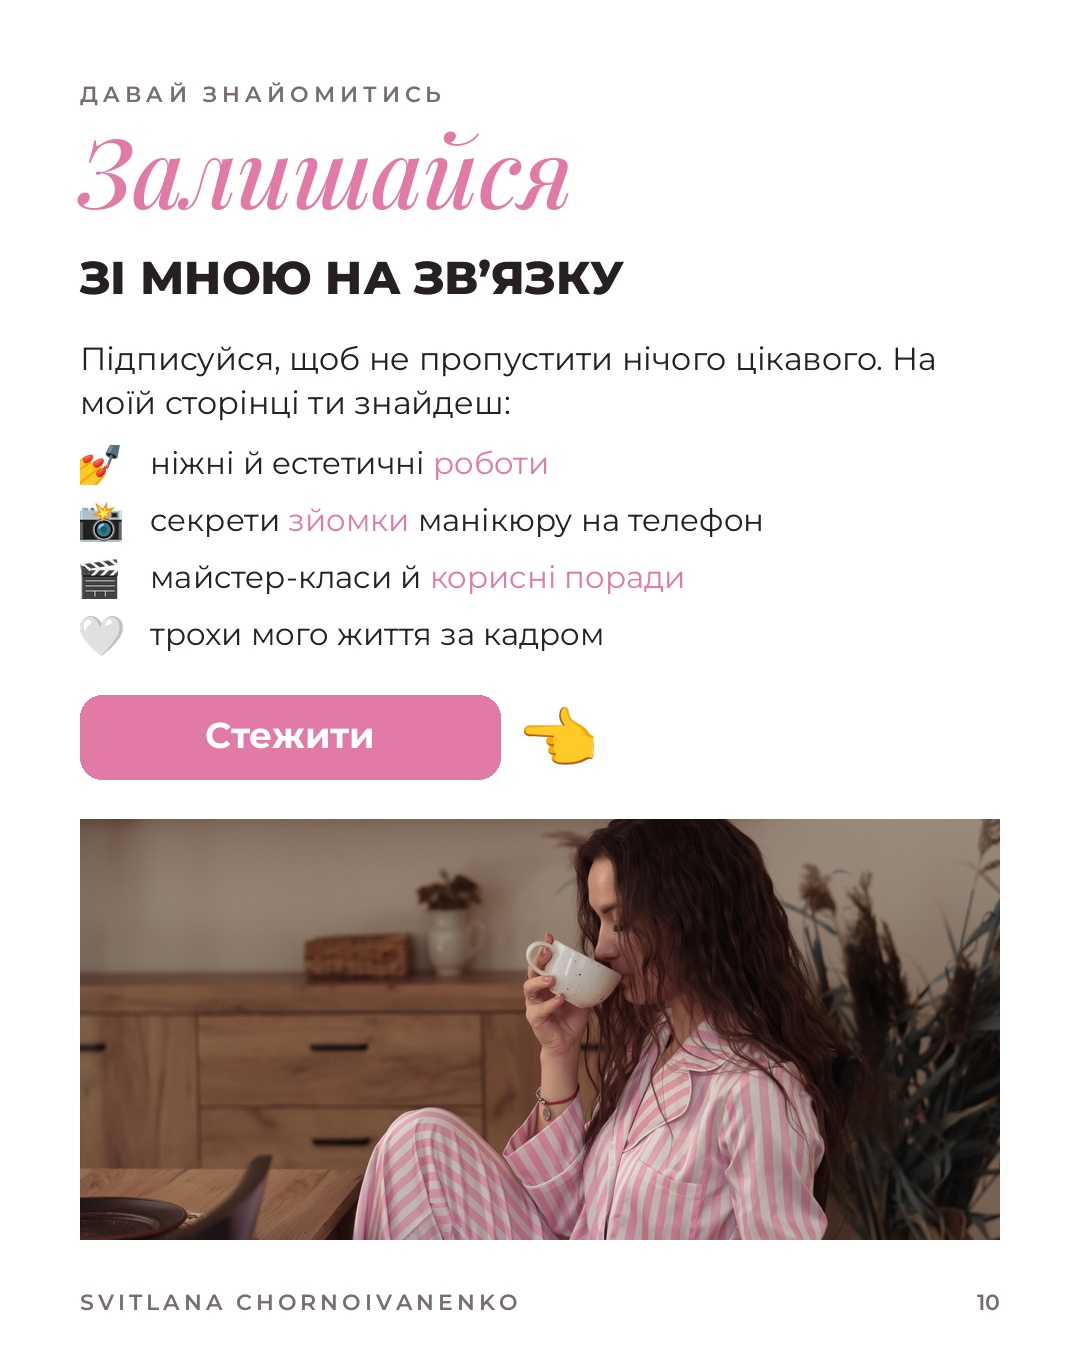
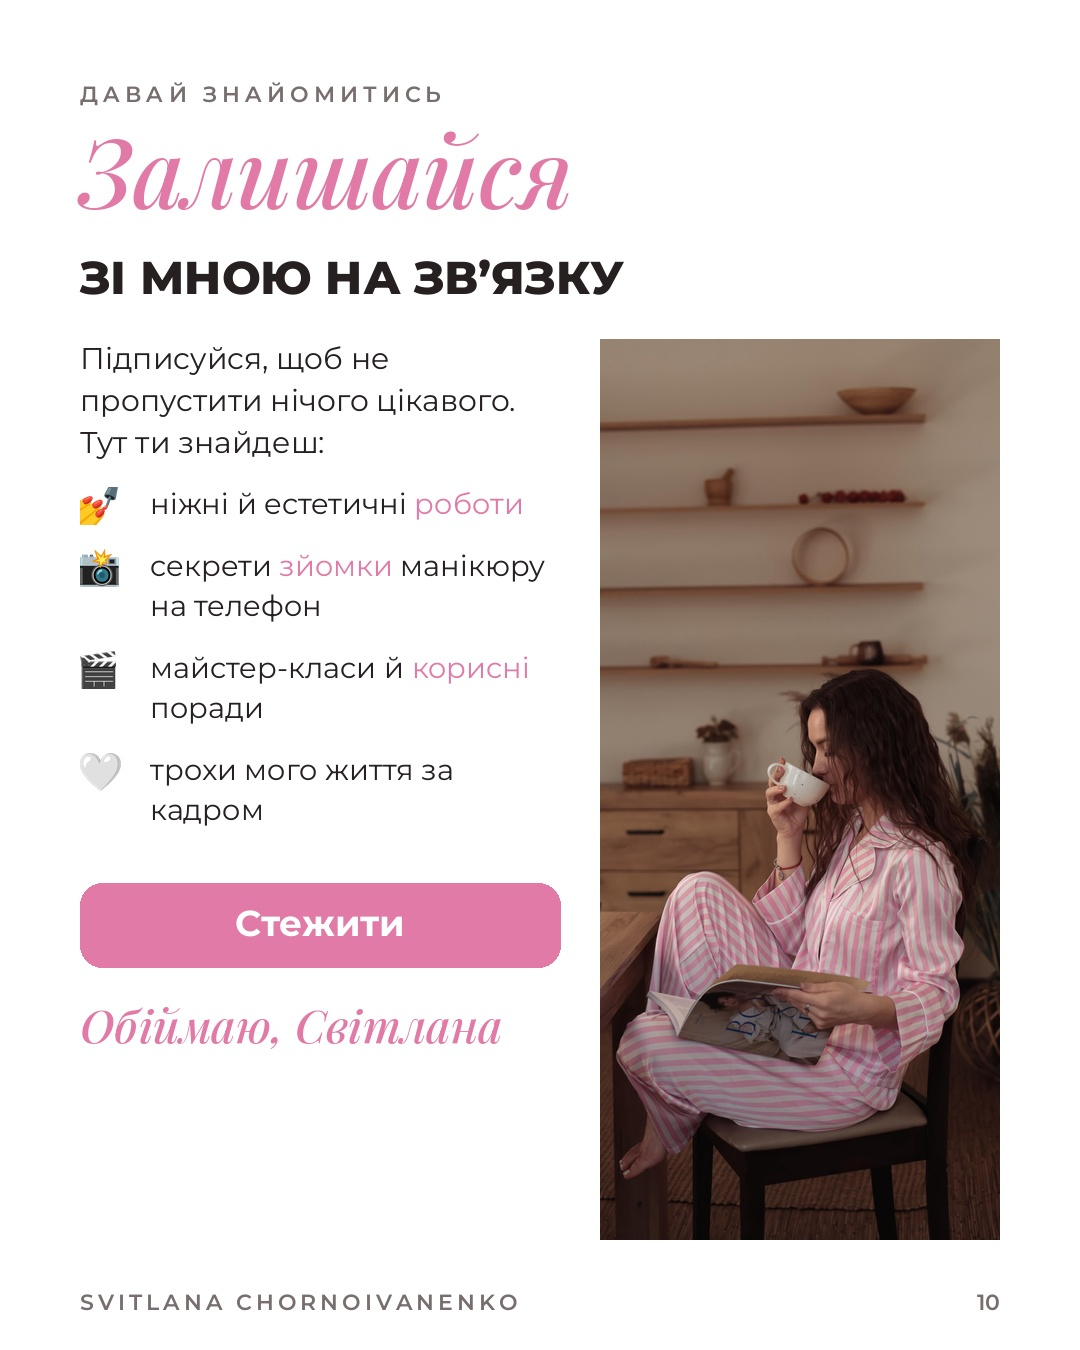
Intro slide 10: vertical photo layout
Claude-Session: https://claude.ai/code/session_0191xVL2hi5vHUvM1ix6pauC

diff --git a/karusel_znaiomstvo/build_10.py b/karusel_znaiomstvo/build_10.py
@@ -3,18 +3,19 @@ S,R=sys.argv[1:3]
 src=open(f'{S}/vl/intro.py').read(); exec(src.split('# ---------- 1 cover')[0])
 c = Image.new('RGB', (W, H), BG); d = ImageDraw.Draw(c)
 y = hdr(d, 'Залишайся', 'ЗІ МНОЮ НА ЗВ’ЯЗКУ')
-y = para(d, 80, y, 'Підписуйся, щоб не пропустити нічого цікавого. На моїй сторінці ти знайдеш:', M(32, 400), 920)
-y = bullet_list(c, d, y + 16, [('💅', 'ніжні й естетичні *роботи*'),
-                               ('📸', 'секрети *зйомки* манікюру на телефон'),
-                               ('🎬', 'майстер-класи й *корисні поради*'),
-                               ('🤍', 'трохи мого життя за кадром')], emo_h=40, size=31, gap=14)
-# follow button
-by = y + 24; bw = 420; bh = 84; bx = 80
+# right vertical photo
+px = 600; pw = W - 80 - px; ptop = y; ph = H - 110 - ptop
+tile(c, L('09383c56-image.jpg'), px, ptop, pw, ph, 0.62, 0.45)
+d = ImageDraw.Draw(c)
+mw = px - 80 - 40
+yy = para(d, 80, y, 'Підписуйся, щоб не пропустити нічого цікавого. Тут ти знайдеш:', M(30, 400), mw)
+yy = bullet_list(c, d, yy + 20, [('💅', 'ніжні й естетичні *роботи*'),
+                                 ('📸', 'секрети *зйомки* манікюру на телефон'),
+                                 ('🎬', 'майстер-класи й *корисні поради*'),
+                                 ('🤍', 'трохи мого життя за кадром')], emo_h=38, size=29, gap=22, mw=mw - 70)
+by = yy + 30; bw = mw; bh = 84; bx = 80
 d.rounded_rectangle((bx, by, bx + bw, by + bh), radius=22, fill=PINK)
 t = 'Стежити'; f = M(36, 700); d.text((bx + (bw - d.textlength(t, font=f)) / 2, by + 18), t, font=f, fill=WHITE)
-e = emoji('👈', 58); c.paste(e, (bx + bw + 24, by + 12), e)
-d = ImageDraw.Draw(c)
-top = by + bh + 40; h = H - 110 - top
-tile(c, L('09383c56-image.jpg'), 80, top, 920, h, 0.5, 0.55)
-d = ImageDraw.Draw(c); foot(d, 10); c.save(f'{OUT}/10.jpg', quality=95)
-print(top, h)
+d.text((80, by + bh + 26), 'Обіймаю, Світлана', font=P(46), fill=PINK)
+foot(d, 10); c.save(f'{OUT}/10.jpg', quality=95)
+print(by + bh + 80)
